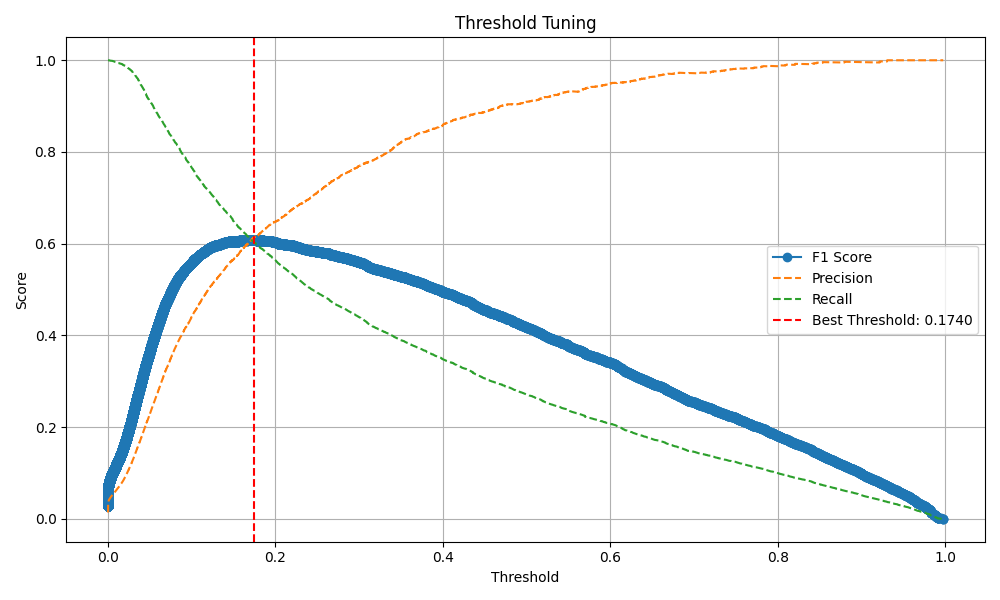
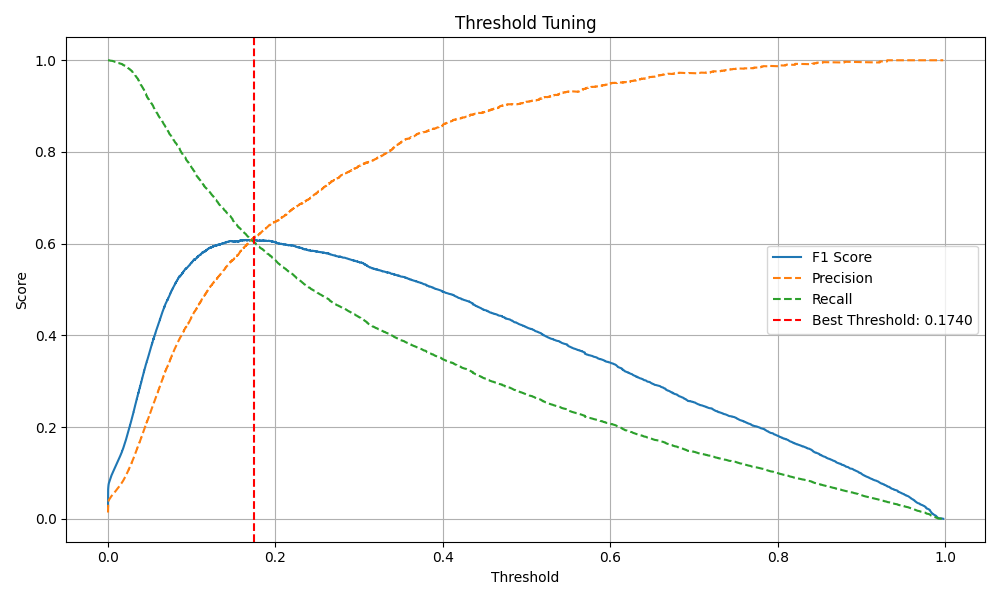
Added the ROC

diff --git a/train_xgboost.py b/train_xgboost.py
@@ -8,14 +8,10 @@ import joblib
 from sklearn.model_selection import StratifiedKFold
 from sklearn.preprocessing import StandardScaler
 from sklearn.metrics import (
-    classification_report,
-    confusion_matrix,
-    roc_auc_score,
-    precision_recall_curve,
-    precision_score,
-    recall_score,
-    f1_score,
-    accuracy_score
+    confusion_matrix, classification_report,
+    roc_auc_score, precision_recall_curve,
+    precision_score, recall_score, f1_score,
+    accuracy_score, roc_curve
 )
 from xgboost import XGBClassifier
 
@@ -24,6 +20,7 @@ DATA_PATH = "data/ml_ready_vortex_data.csv"
 MODEL_PATH = "results/xgboost_vortex_model.pkl"
 CONF_MATRIX_PATH = "results/confusion_matrix.png"
 THRESHOLD_PLOT_PATH = "results/threshold_tuning.png"
+ROC_CURVE_PATH = "results/roc_curve.png"
 os.makedirs("results", exist_ok=True)
 
 # === Preprocessing ===
@@ -32,8 +29,8 @@ def preprocess(df):
     df['pressure_diff_percent'] = (df['pressure_diff'] / df['PRESSURE_MA_500']) * 100
 
     for window in [10, 25]:
-        df[f'rolling_mean_{window}'] = df['pressure_diff'].rolling(window=window).mean()
-        df[f'rolling_std_{window}'] = df['pressure_diff'].rolling(window=window).std()
+        df[f'rolling_mean_{window}'] = df['pressure_diff'].rolling(window).mean()
+        df[f'rolling_std_{window}'] = df['pressure_diff'].rolling(window).std()
 
     for lag in [1, 2]:
         df[f'pressure_lag_{lag}'] = df['PRESSURE'].shift(lag)
@@ -51,33 +48,29 @@ def preprocess(df):
     df['drop_1_percent'] = (df['pressure_diff_percent'] < -1.0).astype(int)
     df['count_drops_25'] = df['drop_1_percent'].rolling(window=25).sum()
 
-    #df['time'] = pd.to_datetime(df['time'], errors='coerce')
     df['time'] = pd.to_datetime(df['time'], format='%H:%M:%S', errors='coerce')
-
     df['hour_fraction'] = df['time'].dt.hour + df['time'].dt.minute / 60 + df['time'].dt.second / 3600
-    df['sin_time'] = np.sin(2 * np.pi * df['hour_fraction'] / 24.0)
-    df['cos_time'] = np.cos(2 * np.pi * df['hour_fraction'] / 24.0)
+    df['sin_time'] = np.sin(2 * np.pi * df['hour_fraction'] / 24)
+    df['cos_time'] = np.cos(2 * np.pi * df['hour_fraction'] / 24)
 
     df.ffill(inplace=True)
     df.bfill(inplace=True)
     df.dropna(inplace=True)
     return df
 
-# === Train and Evaluate with K-Fold ===
+# === Training with K-Fold CV ===
 def train_with_kfold(X, y, n_splits=5):
     skf = StratifiedKFold(n_splits=n_splits, shuffle=True, random_state=42)
-
     accs, precs, recalls, f1s, aucs = [], [], [], [], []
 
     for fold, (train_idx, test_idx) in enumerate(skf.split(X, y), 1):
         print(f"\n🌀 Fold {fold}:")
-
         X_train, X_test = X.iloc[train_idx], X.iloc[test_idx]
         y_train, y_test = y.iloc[train_idx], y.iloc[test_idx]
 
         scaler = StandardScaler()
-        X_train_scaled = scaler.fit_transform(X_train)
-        X_test_scaled = scaler.transform(X_test)
+        X_train = scaler.fit_transform(X_train)
+        X_test = scaler.transform(X_test)
 
         model = XGBClassifier(
             n_estimators=300,
@@ -88,10 +81,9 @@ def train_with_kfold(X, y, n_splits=5):
             eval_metric='logloss',
             random_state=42
         )
-        model.fit(X_train_scaled, y_train)
-
-        y_pred = model.predict(X_test_scaled)
-        y_proba = model.predict_proba(X_test_scaled)[:, 1]
+        model.fit(X_train, y_train)
+        y_pred = model.predict(X_test)
+        y_proba = model.predict_proba(X_test)[:, 1]
 
         accs.append(accuracy_score(y_test, y_pred))
         precs.append(precision_score(y_test, y_pred))
@@ -100,42 +92,54 @@ def train_with_kfold(X, y, n_splits=5):
         aucs.append(roc_auc_score(y_test, y_proba))
 
         if fold == n_splits:
-            # Save final model
             joblib.dump(model, MODEL_PATH)
             print(f"✅ Model saved to: {MODEL_PATH}")
 
-            # Save Confusion Matrix
             cm = confusion_matrix(y_test, y_pred)
             plt.figure(figsize=(6, 4))
             sns.heatmap(cm, annot=True, fmt='d', cmap='Blues')
-            plt.title('Confusion Matrix')
-            plt.xlabel('Predicted')
-            plt.ylabel('True')
+            plt.title("Confusion Matrix")
+            plt.xlabel("Predicted")
+            plt.ylabel("True")
             plt.tight_layout()
             plt.savefig(CONF_MATRIX_PATH)
             plt.close()
             print(f"📊 Confusion matrix saved to: {CONF_MATRIX_PATH}")
 
-            # Threshold Tuning
             precision, recall, thresholds = precision_recall_curve(y_test, y_proba)
             f1_scores = 2 * precision * recall / (precision + recall + 1e-8)
             best_threshold = thresholds[np.argmax(f1_scores)]
 
             plt.figure(figsize=(10, 6))
-            plt.plot(thresholds, f1_scores[:-1], label='F1 Score', marker='o')
-            plt.plot(thresholds, precision[:-1], label='Precision', linestyle='--')
-            plt.plot(thresholds, recall[:-1], label='Recall', linestyle='--')
+            plt.plot(thresholds, f1_scores[:-1], label='F1 Score')
+            plt.plot(thresholds, precision[:-1], linestyle='--', label='Precision')
+            plt.plot(thresholds, recall[:-1], linestyle='--', label='Recall')
             plt.axvline(x=best_threshold, color='red', linestyle='--', label=f'Best Threshold: {best_threshold:.4f}')
-            plt.xlabel('Threshold')
-            plt.ylabel('Score')
-            plt.title('Threshold Tuning')
+            plt.xlabel("Threshold")
+            plt.ylabel("Score")
+            plt.title("Threshold Tuning")
             plt.legend()
             plt.grid(True)
             plt.tight_layout()
             plt.savefig(THRESHOLD_PLOT_PATH)
             plt.close()
             print(f"📈 Threshold tuning plot saved to: {THRESHOLD_PLOT_PATH}")
-    
+
+            # ROC Curve
+            fpr, tpr, _ = roc_curve(y_test, y_proba)
+            plt.figure(figsize=(6, 6))
+            plt.plot(fpr, tpr, label=f"AUC = {roc_auc_score(y_test, y_proba):.4f}")
+            plt.plot([0, 1], [0, 1], 'k--')
+            plt.xlabel("False Positive Rate")
+            plt.ylabel("True Positive Rate")
+            plt.title("ROC Curve")
+            plt.legend()
+            plt.grid(True)
+            plt.tight_layout()
+            plt.savefig(ROC_CURVE_PATH)
+            plt.close()
+            print(f"📈 ROC curve saved to: {ROC_CURVE_PATH}")
+
     print("\n🔁 Cross-Validation Results (Average of All Folds):")
     print(f" - Accuracy:  {np.mean(accs):.4f}")
     print(f" - Precision: {np.mean(precs):.4f}")
@@ -143,7 +147,7 @@ def train_with_kfold(X, y, n_splits=5):
     print(f" - F1 Score:  {np.mean(f1s):.4f}")
     print(f" - ROC-AUC:   {np.mean(aucs):.4f}")
 
-# === MAIN ===
+# === Main ===
 def main():
     print("🚀 Loading data...")
     df = pd.read_csv(DATA_PATH)
@@ -159,7 +163,7 @@ def main():
     y = df['gt_4xfwhm']
 
     if y.nunique() < 2:
-        print("❌ ERROR: Only one class in target. Abort.")
+        print("❌ ERROR: Only one class in target.")
         return
 
     train_with_kfold(X, y)
